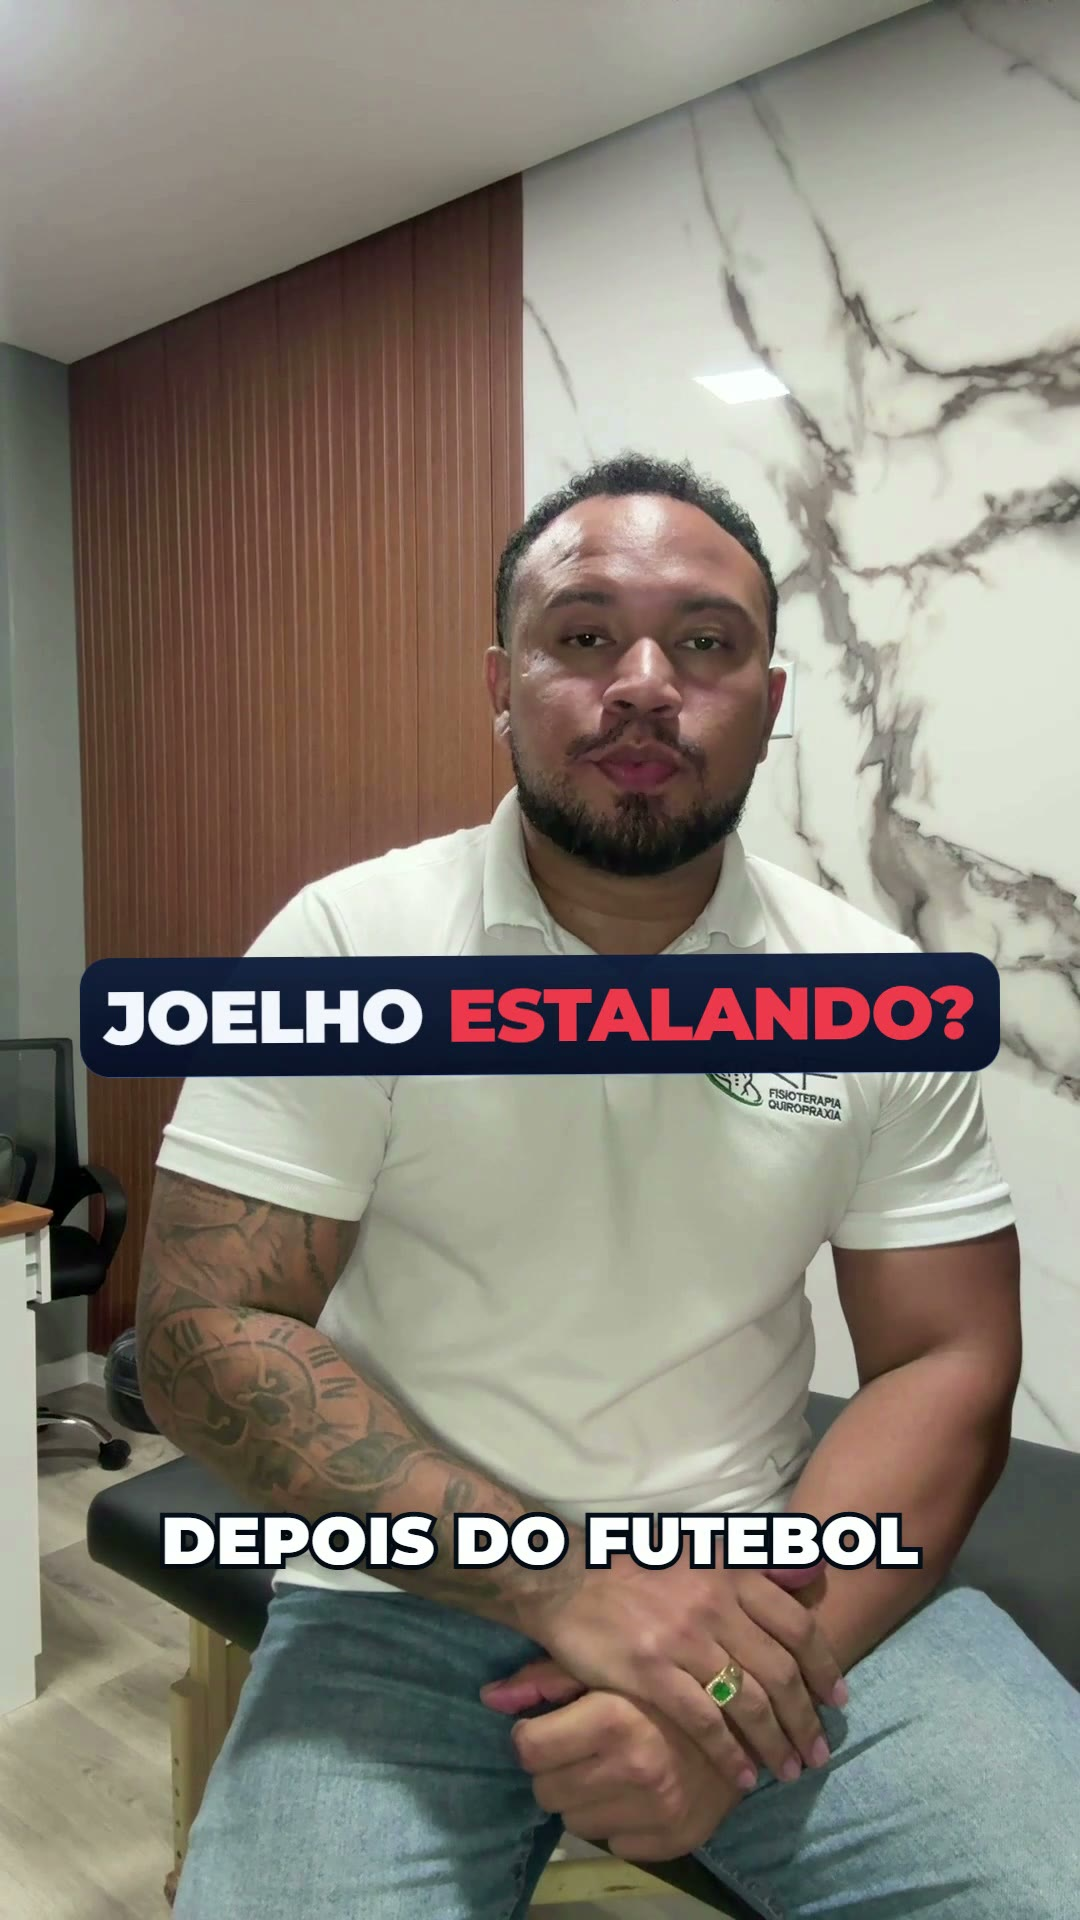
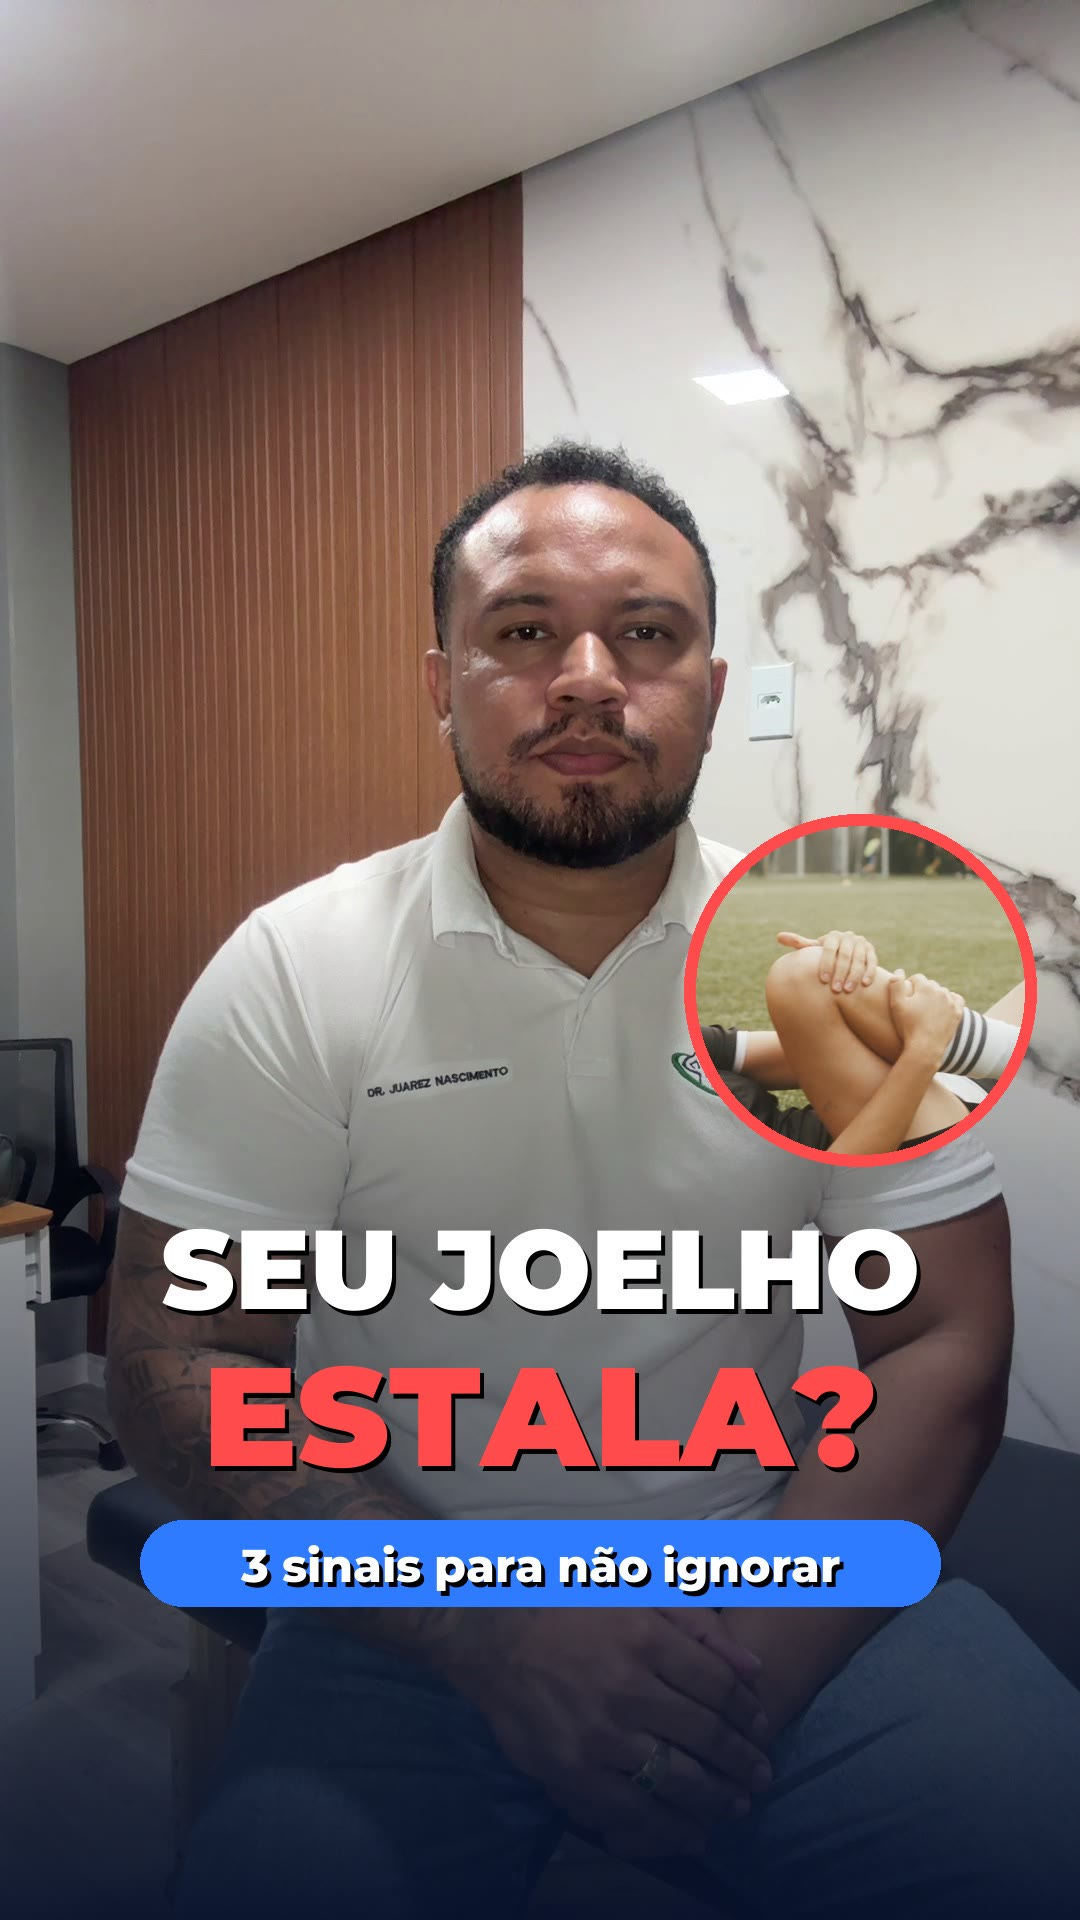
Dr. Juarez: capa nova do Reels do joelho na página de entrega

diff --git a/juarez-nascimento/joelho/index.html b/juarez-nascimento/joelho/index.html
@@ -12,7 +12,7 @@
 <meta property="og:title" content="Dr. Juarez · Seu Reels está pronto">
 <meta property="og:description" content="Joelho estalando depois do futebol? 3 sinais para não ignorar. Toque para assistir e baixar.">
 <meta property="og:url" content="https://takepronto.com.br/juarez-nascimento/joelho/">
-<meta property="og:image" content="https://takepronto.com.br/midia/juarez/entrega-joelho-cartao.jpg">
+<meta property="og:image" content="https://takepronto.com.br/midia/juarez/entrega-joelho-cartao.jpg?v=2">
 <meta property="og:image:width" content="1200">
 <meta property="og:image:height" content="630">
 <meta property="og:locale" content="pt_BR">
@@ -62,14 +62,14 @@ footer a{color:var(--paper)}
   <h1>Seu Reels está <span class="r">pronto</span>, Dr. Juarez.</h1>
   <p class="lead">"Joelho estalando depois do futebol? 3 sinais para não ignorar". Assista, baixe no celular e poste.</p>
 
-  <div class="vid"><video id="video" src="../../midia/juarez/juarez-joelho-final.mp4" poster="../../midia/juarez/juarez-joelho-capa.jpg" controls playsinline preload="metadata"></video></div>
+  <div class="vid"><video id="video" src="../../midia/juarez/juarez-joelho-final.mp4" poster="../../midia/juarez/juarez-joelho-capa.jpg?v=2" controls playsinline preload="metadata"></video></div>
 
   <div class="btns">
     <a class="btn main" id="baixar" href="../../midia/juarez/juarez-joelho-final.mp4" download="Juarez - Joelho estalando - 3 sinais.mp4">
       <svg viewBox="0 0 24 24" aria-hidden="true"><path fill="currentColor" d="M11 3h2v10.2l3.6-3.6 1.4 1.4-6 6-6-6 1.4-1.4 3.6 3.6z"/><path fill="currentColor" d="M4 18h16v2H4z"/></svg>
       Baixar o vídeo
     </a>
-    <a class="btn alt" href="../../midia/juarez/juarez-joelho-capa.jpg" download="Juarez - Joelho estalando - capa.jpg">Baixar a capa</a>
+    <a class="btn alt" href="../../midia/juarez/juarez-joelho-capa.jpg?v=2" download="Juarez - Joelho estalando - capa.jpg">Baixar a capa</a>
   </div>
   <div class="dica" id="dica"><b>No iPhone:</b> toque em "Baixar o vídeo". Se o vídeo abrir em outra tela, toque no ícone de compartilhar (o quadrado com a seta) e depois em <b>Salvar vídeo</b>. Ele vai para a sua galeria.</div>
 
